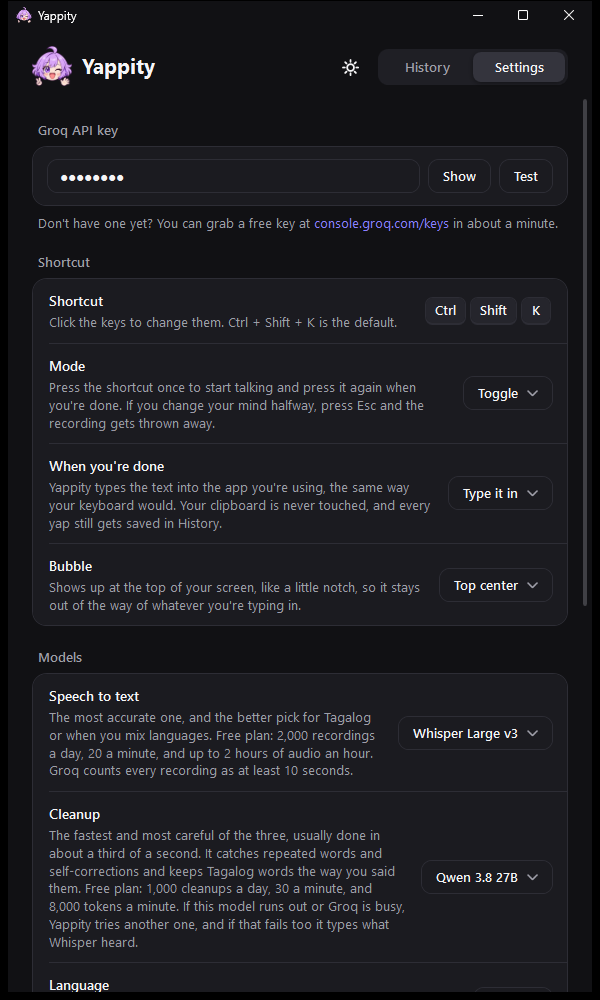
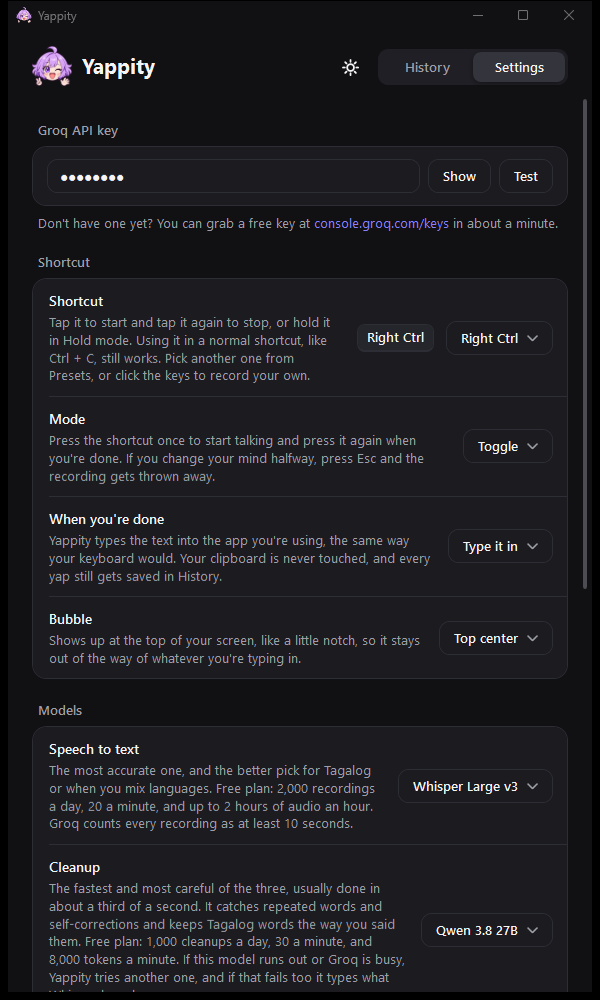
Right Ctrl by default, shortcut presets, Start menu entry, reopening shows the window

diff --git a/src/MainWindow.cs b/src/MainWindow.cs
@@ -44,6 +44,19 @@ namespace Yappity
             new Choice("bottom-left", "Bottom left", "Shows up just above your taskbar in the bottom left corner."),
         };
 
+        // Quick picks for the shortcut. Id is "vk:mods".
+        public static readonly Choice[] Shortcuts =
+        {
+            new Choice("163:0", "Right Ctrl", ""),
+            new Choice("165:0", "Right Alt", ""),
+            new Choice("161:0", "Right Shift", ""),
+            new Choice("75:3", "Ctrl + Shift + K", ""),
+            new Choice("32:1", "Ctrl + Space", ""),
+            new Choice("120:0", "F9", ""),
+            new Choice("19:0", "Pause", ""),
+            new Choice("custom", "Record my own", ""),
+        };
+
         public static readonly Choice[] KeepAudio =
         {
             new Choice("1", "1 day", "Every recording stays in History for a day, so you can play it, send it again or drag it out. Recordings that failed to send stay for 30 days."),
@@ -571,6 +584,7 @@ namespace Yappity
         readonly TextBlock keyStatus = K.Wrap("", 12.5, K.Muted);
         readonly Border shortcutButton = new Border { Cursor = Cursors.Hand, Padding = new Thickness(2), CornerRadius = new CornerRadius(9) };
         readonly KeyCaps caps = new KeyCaps();
+        readonly Picker presets = new Picker();
         readonly TextBlock shortcutHint = K.Wrap("", 12.5, K.Muted);
         readonly Picker mode = new Picker(), output = new Picker(), bubble = new Picker(), speech = new Picker(), cleanup = new Picker(), language = new Picker(), theme = new Picker(), keep = new Picker();
         readonly TextBlock keepHint = K.Wrap("", 12.5, K.Muted);
@@ -646,7 +660,22 @@ namespace Yappity
             var g1 = new Group();
             shortcutButton.Child = caps;
             shortcutButton.MouseLeftButtonUp += delegate { if (capturing) StopCapture(); else StartCapture(); };
-            g1.Add(Group.Row("Shortcut", shortcutHint, shortcutButton));
+            presets.SetChoices(Options.Shortcuts);
+            presets.Margin = new Thickness(10, 0, 0, 0);
+            presets.Changed += delegate
+            {
+                if (presets.Value == "custom") { StartCapture(); return; }
+                var parts = presets.Value.Split(':');
+                shortcutVk = int.Parse(parts[0]);
+                shortcutMods = int.Parse(parts[1]);
+                StopCapture();
+                ShowShortcut(null);
+                Changed();
+            };
+            var shortcutRight = new StackPanel { Orientation = Orientation.Horizontal };
+            shortcutRight.Children.Add(shortcutButton);
+            shortcutRight.Children.Add(presets);
+            g1.Add(Group.Row("Shortcut", shortcutHint, shortcutRight));
             g1.Add(Group.Row("Mode", modeHint, mode));
             g1.Add(Group.Row("When you're done", outputHint, output));
             g1.Add(Group.Row("Bubble", bubbleHint, bubble));
@@ -723,7 +752,7 @@ namespace Yappity
             }
             var text = new StackPanel { VerticalAlignment = VerticalAlignment.Center };
             text.Children.Add(K.T("Hi, I'm Yappy-chan!", 17, K.Text, FontWeights.Bold));
-            var body = K.Wrap("Paste your free Groq key below and you're ready. Then press " + app.ShortcutName + " anywhere, say something, and press it again. I'll type it for you.", 13, K.Muted);
+            var body = K.Wrap("Paste your free Groq key below and you're ready. " + app.HowTo() + " I'll type it wherever your cursor is.", 13, K.Muted);
             body.Margin = new Thickness(0, 5, 0, 0);
             text.Children.Add(body);
             Grid.SetColumn(text, 1);
@@ -791,6 +820,11 @@ namespace Yappity
         void ShowShortcut(string problem)
         {
             caps.Show(KeyboardHook.Describe(shortcutVk, shortcutMods));
+            string id = shortcutVk + ":" + shortcutMods;
+            bool known = false;
+            foreach (var c in Options.Shortcuts) if (c.Id == id) known = true;
+            presets.Value = known ? id : "custom";
+            if (!known) presets.Text = "Presets";
             if (problem != null)
             {
                 shortcutHint.Text = problem;
@@ -798,7 +832,9 @@ namespace Yappity
             }
             else
             {
-                shortcutHint.Text = "Click the keys to change them. Ctrl + Shift + K is the default.";
+                shortcutHint.Text = KeyboardHook.IsModifier(shortcutVk) && shortcutMods == 0
+                    ? "Tap it to start and tap it again to stop, or hold it in Hold mode. Using it in a normal shortcut, like Ctrl + C, still works. Pick another one from Presets, or click the keys to record your own."
+                    : "Pick one from Presets, or click the keys and press your own. Right Ctrl is the default.";
                 shortcutHint.Foreground = K.B(K.Muted);
             }
         }

diff --git a/src/App.cs b/src/App.cs
@@ -86,7 +86,7 @@ namespace Yappity
             }
             else
             {
-                tray.ShowBalloonTip(3000, "Yappity is on", HowTo() + " It types wherever your cursor is.", ToolTipIcon.None);
+                tray.ShowBalloonTip(3000, "Yappity is on", HowTo() + " It types wherever your cursor is. Search for Yappity in the Start menu to open it again.", ToolTipIcon.None);
                 ScheduleTrim();
             }
         }
@@ -139,6 +139,29 @@ namespace Yappity
             }
         }
 
+        // Puts Yappity in the Start menu so you can find it with Windows search.
+        // Skipped for test copies that use YAPPITY_HOME.
+        public void AddToStartMenu()
+        {
+            if (!string.IsNullOrEmpty(Environment.GetEnvironmentVariable("YAPPITY_HOME"))) return;
+            try
+            {
+                string exe = Application.ExecutablePath;
+                string lnk = Path.Combine(Environment.GetFolderPath(Environment.SpecialFolder.Programs), "Yappity.lnk");
+                Type shellType = Type.GetTypeFromProgID("WScript.Shell");
+                object shell = Activator.CreateInstance(shellType);
+                object link = shellType.InvokeMember("CreateShortcut", System.Reflection.BindingFlags.InvokeMethod, null, shell, new object[] { lnk });
+                Type lt = link.GetType();
+                string current = (string)lt.InvokeMember("TargetPath", System.Reflection.BindingFlags.GetProperty, null, link, null);
+                if (File.Exists(lnk) && string.Equals(current, exe, StringComparison.OrdinalIgnoreCase)) return;
+                lt.InvokeMember("TargetPath", System.Reflection.BindingFlags.SetProperty, null, link, new object[] { exe });
+                lt.InvokeMember("WorkingDirectory", System.Reflection.BindingFlags.SetProperty, null, link, new object[] { Path.GetDirectoryName(exe) });
+                lt.InvokeMember("Description", System.Reflection.BindingFlags.SetProperty, null, link, new object[] { "Free voice typing" });
+                lt.InvokeMember("Save", System.Reflection.BindingFlags.InvokeMethod, null, link, null);
+            }
+            catch (Exception e) { Store.Log("Couldn't add the Start menu shortcut: " + e.Message); }
+        }
+
         public string ShortcutName { get { return KeyboardHook.Describe(Settings.ShortcutVk, Settings.ShortcutMods); } }
 
         // One sentence on how to start a yap with the current settings.
@@ -146,7 +169,7 @@ namespace Yappity
         {
             return Settings.HoldMode
                 ? "Hold " + ShortcutName + " while you talk, then let go."
-                : "Press " + ShortcutName + " to start talking and press it again when you're done.";
+                : (KeyboardHook.IsModifier(Settings.ShortcutVk) && Settings.ShortcutMods == 0 ? "Tap " : "Press ") + ShortcutName + " to start talking and again when you're done.";
         }
 
         void UpdateTrayText()

diff --git a/src/Program.cs b/src/Program.cs
@@ -62,10 +62,11 @@ namespace Yappity
             string instance = @"Local\Yappity-" + Store.Dir.ToLowerInvariant().GetHashCode().ToString("x");
             using (var mutex = new Mutex(true, instance, out first))
             {
+                var show = new EventWaitHandle(false, EventResetMode.AutoReset, instance + "-show");
                 if (!first)
                 {
-                    MessageBox.Show("Yappity is already running. Check your tray, it's the mic icon.",
-                        "Yappity", MessageBoxButtons.OK, MessageBoxIcon.Information);
+                    // Already running (maybe hidden in the tray), so ask that copy to open its window.
+                    show.Set();
                     return 0;
                 }
 
@@ -87,6 +88,14 @@ namespace Yappity
                     wpf.Startup += delegate
                     {
                         var app = new App();
+                        var listener = new Thread(delegate()
+                        {
+                            while (show.WaitOne())
+                                wpf.Dispatcher.BeginInvoke((Action)delegate { app.ShowWindow(false); });
+                        });
+                        listener.IsBackground = true;
+                        listener.Start();
+                        app.AddToStartMenu();
                         if (Array.IndexOf(args, "--history") >= 0) app.ShowWindow(false);
                         if (Array.IndexOf(args, "--settings") >= 0) app.ShowWindow(true);
                     };

diff --git a/src/Store.cs b/src/Store.cs
@@ -29,8 +29,8 @@ namespace Yappity
             Theme = "system";
             KeepAudioDays = 7;
             Bubble = "top";
-            ShortcutVk = 0x4B; // K
-            ShortcutMods = KeyboardHook.ModCtrl | KeyboardHook.ModShift;
+            ShortcutVk = 0xA3; // Right Ctrl: tap to start and stop, or hold in Hold mode
+            ShortcutMods = 0;
             Mode = "toggle";
             Output = "type";
             SpeechModel = Groq.SpeechModels[0].Id;

diff --git a/README.md b/README.md
@@ -1,12 +1,12 @@
 <p align="center">
-  <img src="docs/yappy-dance.gif" width="220" alt="Yappy-chan dancing">
+  <img src="docs/yappy-logo.png" width="190" alt="Yappy-chan, the Yappity mascot">
 </p>
 
 <h1 align="center">Yappity</h1>
 
 <p align="center">
   <b>Free voice typing for Windows.</b><br>
-  Press a shortcut, yap, press it again. Whatever you said gets typed where your cursor is.
+  Tap <kbd>Right Ctrl</kbd>, yap, tap it again. Whatever you said gets typed where your cursor is.
 </p>
 
 <p align="center">
@@ -36,7 +36,7 @@ to sign up for besides Groq.
 
 <table>
   <tr>
-    <td align="center" width="25%"><img src="docs/yappy-talk.gif" width="150"><br><b>You talk</b><br>Press <kbd>Ctrl</kbd> + <kbd>Shift</kbd> + <kbd>K</kbd> and yap. Yappy-chan talks along with your voice.</td>
+    <td align="center" width="25%"><img src="docs/yappy-talk.gif" width="150"><br><b>You talk</b><br>Tap <kbd>Right Ctrl</kbd> and yap. Yappy-chan talks along with your voice.</td>
     <td align="center" width="25%"><img src="docs/yappy-type.gif" width="150"><br><b>She writes it down</b><br>Whisper Large v3 turns it into text, usually in about a second.</td>
     <td align="center" width="25%"><img src="docs/yappy-tidy.gif" width="150"><br><b>She tidies it up</b><br>The um, uh and you know get cleaned out. Your words stay yours.</td>
     <td align="center" width="25%"><img src="docs/yappy-done.gif" width="150"><br><b>Done</b><br>The text gets typed right where your cursor is, in any app.</td>
@@ -67,7 +67,7 @@ sentences, never answers a question you dictate, never translates, and never use
 - **Types like a keyboard.** Your clipboard is never touched. Paste mode is there if you want it.
 - **Taglish friendly.** An English + Tagalog mode keeps every word in the language you said it in.
 - **Never loses a yap.** Every recording is saved. Play it, send it again, or drag it into any app or folder.
-- **Your shortcut, your way.** Toggle (press to start, press to stop) or hold to talk, with any keys you want. <kbd>Esc</kbd> cancels.
+- **Your shortcut, your way.** <kbd>Right Ctrl</kbd> by default. Tap it to start and stop, or switch to Hold mode and hold it while you talk. Pick another one from the presets or record any keys you want. <kbd>Esc</kbd> cancels.
 - **Long recordings.** Up to 30 minutes. Long ones get split at a pause and sent in parts.
 - **Backup model.** If the cleanup model is busy or out of free requests, Yappity tries another one, then falls back to exactly what Whisper heard.
 - **Light and dark mode,** with a one-click switch in the window.
@@ -94,10 +94,10 @@ sentences, never answers a question you dictate, never translates, and never use
    **More info**, then **Run anyway**. The code is all here if you want to check it first.
 3. Grab a free key at [console.groq.com/keys](https://console.groq.com/keys). It takes about a minute.
 4. Paste the key in Settings and press **Test**.
-5. Click into any text box, press <kbd>Ctrl</kbd> + <kbd>Shift</kbd> + <kbd>K</kbd>, say something,
-   and press it again.
+5. Click into any text box, tap <kbd>Right Ctrl</kbd>, say something, and tap it again.
 
-That's the whole setup. Turn on **Start with Windows** in Settings if you want it ready every time.
+That's the whole setup. Yappity lives in your tray and in the Start menu, so search for "Yappity" any
+time you want the window back. Turn on **Start with Windows** in Settings if you want it ready every time.
 
 ---
 
@@ -105,8 +105,8 @@ That's the whole setup. Turn on **Start with Windows** in Settings if you want i
 
 | Setting | What it does |
 | :--- | :--- |
-| Shortcut | Click it and press any keys. <kbd>Ctrl</kbd> + <kbd>Shift</kbd> + <kbd>K</kbd> is the default |
-| Mode | **Toggle** (press to start, press to stop) or **Hold** (hold while you talk) |
+| Shortcut | <kbd>Right Ctrl</kbd> by default. Presets for Right Alt, Right Shift, Ctrl + Shift + K, Ctrl + Space, F9 and Pause, or record your own |
+| Mode | **Toggle** (tap to start, tap to stop) or **Hold** (hold while you talk). Using Right Ctrl in a normal shortcut like Ctrl + C still works |
 | When you're done | **Type it in** (default), **Paste it** with Ctrl+V, or **History only** |
 | Bubble | Top center (default), any corner, or bottom center |
 | Speech to text | Whisper Large v3 (most accurate) or Whisper Large v3 Turbo (a bit faster) |
